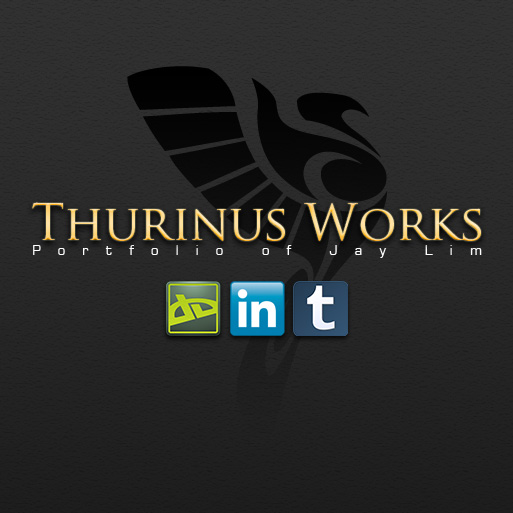
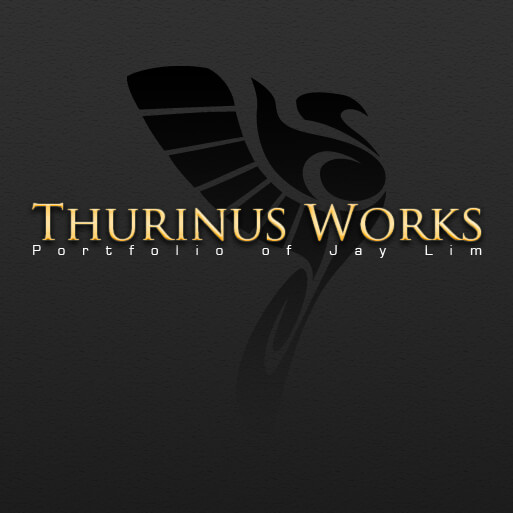
remove front page links, for now.

diff --git a/index.html b/index.html
@@ -8,11 +8,6 @@
   <body>
 	<div id="container">
 		<h1>Thurinus Works</h1>
-		<ul>
-			<li class="da"><a href="http://thurinus.deviantart.com/" title="DeviantArt">DeviantArt</a></li>
-			<li class="linkedin"><a href="http://www.linkedin.com/in/jaylim" title="LinkedIn">LinkedIn</a></li>
-			<li class="tumblr"><a href="http://thurinusworks.tumblr.com/" title="Tumblr">Tumblr</a></li>
-		</ul>
 		</div>
 		<div id="footer">
 		<!-- Thurinus Works &copy; 2021 Jay Lim -->

diff --git a/style/style.css b/style/style.css
@@ -7,7 +7,5 @@ h1 { margin: 0; padding: 0; display: none; }
 #container ul { margin: 0; padding: 0; list-style: none; position: absolute; top: 280px; left: 165px; }
 #container li { position: absolute; width: 54px; height: 54px; }
 #container a { width: 100%; height: 100%;  text-indent: -99999px; position: absolute; }
-.linkedin { left: 65px; }
-.tumblr { left: 130px; }
 
 #footer { text-align: center; color: #555; }
